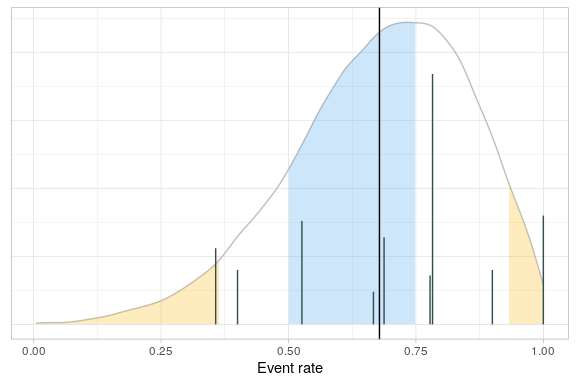
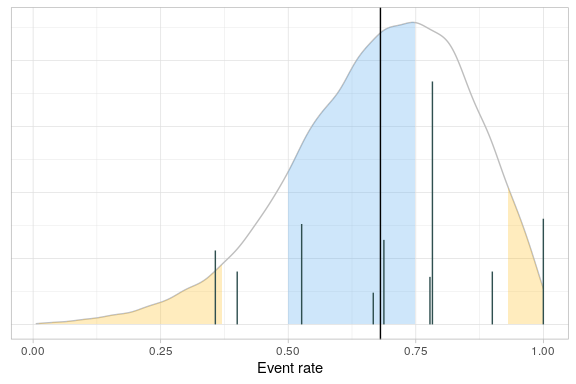
Tests for evaluatePoinEstimateQTL

diff --git a/README.md b/README.md
@@ -243,11 +243,11 @@ quantiles
 #> # A tibble: 1 × 2
 #>     Q05   Q95
 #>   <dbl> <dbl>
-#> 1 0.365 0.931
+#> 1 0.372 0.930
 ```
 
 So, in this specific case, our QTLs translate to observed event rates of
-36.51% and 93.15% respectively.
+37.15% and 93.00% respectively.
 
 Do any sites have observed event rates outside this range?
 
@@ -305,10 +305,10 @@ Upper
 1.000
 </td>
 <td style="text-align:right;">
-0.365
+0.372
 </td>
 <td style="text-align:right;">
-0.931
+0.93
 </td>
 </tr>
 <tr>
@@ -325,10 +325,10 @@ Upper
 0.357
 </td>
 <td style="text-align:right;">
-0.365
+0.372
 </td>
 <td style="text-align:right;">
-0.931
+0.93
 </td>
 </tr>
 </tbody>
@@ -374,7 +374,7 @@ fitted$tab %>%
 #> # A tibble: 1 × 1
 #>   PosteriorProb
 #>           <dbl>
-#> 1         0.464
+#> 1         0.471
 ```
 
 Again, the QTL is breached, and the process can be summarised
@@ -426,7 +426,7 @@ For example, the code below defines a QTL based on the mean of the
 posterior distribution of the probability of an event. Call this
 probability
 ![\\hat{p}](https://latex.codecogs.com/png.image?%5Cdpi%7B110%7D&space;%5Cbg_white&space;%5Chat%7Bp%7D "\hat{p}").
-The warning limits are 0.1 and 0.7. The action limits are 0.2 and 0.9.
+The warning limits are 0.5 and 0.8. The action limits are 0.4 and 0.9.
 
 ``` r
 berrySummary %>%
@@ -434,8 +434,8 @@ berrySummary %>%
     posterior = fitted$tab,
     metric = p,
     observedMetric = ObservedResponse,
-    lower = c("warn" = 0.1, "action" = 0.2),
-    upper = c("warn" = 0.7, "action" = 0.9)
+    lower = c("warn" = 0.5, "action" = 0.4),
+    upper = c("warn" = 0.8, "action" = 0.9)
   )
 #> $status
 #> [1] "OK"
@@ -445,17 +445,17 @@ berrySummary %>%
 #>    Site Subjects Events ObservedResponse Status
 #>   <int>    <dbl>  <dbl>            <dbl> <chr> 
 #> 1     1       20     20            1     action
-#> 2     2       10      4            0.4   OK    
+#> 2     2       10      4            0.4   warn  
 #> 3     3       16     11            0.688 OK    
 #> 4     4       19     10            0.526 OK    
-#> 5     5       14      5            0.357 OK    
-#> 6     6       46     36            0.783 warn  
+#> 5     5       14      5            0.357 action
+#> 6     6       46     36            0.783 OK    
 #> 7     7       10      9            0.9   warn  
-#> 8     8        9      7            0.778 warn  
+#> 8     8        9      7            0.778 OK    
 #> 9     9        6      4            0.667 OK    
 #> 
 #> $qtl
-#> [1] 0.6784632
+#> [1] 0.6807154
 ```
 
 As with all `evaluateXXXXQTL` functions, the return value of
@@ -515,7 +515,7 @@ berrySummary %>%
 #> 9     9        6      4            0.667 OK    
 #> 
 #> $qtl
-#> [1] 0.6959131
+#> [1] 0.6978385
 ```
 
 and 10th centile of the posterior distribution of
@@ -549,7 +549,7 @@ berrySummary %>%
 #> 
 #> $qtl
 #>       10% 
-#> 0.4419041
+#> 0.4512664
 ```
 
 ##### By calculating the probability that the derived metric is in a given range
@@ -593,7 +593,7 @@ berrySummary %>%
     }
   )
 #> $qtl
-#> [1] 0.6784632
+#> [1] 0.6807154
 #> 
 #> $status
 #> [1] "Breach"
@@ -880,42 +880,6 @@ Fitting the model is straightforward.
 ``` r
 poissonFit <- cavalrySummary %>%
   fitBayesPoissonModel(Deaths, TotalTime)
-#> [[1]]
-#> [[1]]$.RNG.name
-#> [1] "base::Mersenne-Twister"
-#> 
-#> [[1]]$.RNG.seed
-#> [1] 2111393538
-#> 
-#> [[1]]$lambda
-#>  [1] 0.06602477 0.21555481 1.76582996 1.54033213 1.56320162 0.67496122
-#>  [7] 0.80286726 1.90053657 0.96873827 1.13620730 1.60602326 0.20700234
-#> [13] 0.50264506 0.20989224 0.16453996
-#> 
-#> [[1]]$shape
-#> [1] 0.05964483
-#> 
-#> [[1]]$scale
-#> [1] 7.47398
-#> 
-#> 
-#> [[2]]
-#> [[2]]$.RNG.name
-#> [1] "base::Mersenne-Twister"
-#> 
-#> [[2]]$.RNG.seed
-#> [1] 1485093739
-#> 
-#> [[2]]$lambda
-#>  [1] 0.29244458 0.52194200 0.86308415 2.56368361 0.63816685 2.96916945
-#>  [7] 1.36071577 1.08666969 0.70170733 2.21821016 0.01696328 3.46028461
-#> [13] 1.00903754 0.10146709 0.03369489
-#> 
-#> [[2]]$shape
-#> [1] 16.31142
-#> 
-#> [[2]]$scale
-#> [1] 30.56183
 poissonFit$tab %>%
   createQtlPlot(
     metric = lambda,
